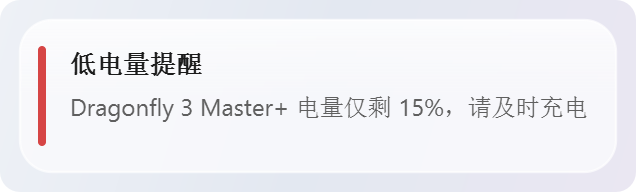
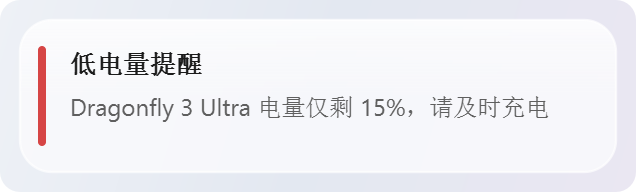
docs: 截图同步为 Dragonfly 3 Ultra
- 演示截图设备由 Dragonfly 3 Master+ 换成 Dragonfly 3 Ultra（391D:1A25）
- 实机截图重拍：Ultra 100%，V108 键盘处于休眠，正好展示休眠态处理
- README 对应文案同步

Changed region(s): [[0.2987, 0.5, 0.9261, 0.625]]

diff --git a/tools/make_screenshots.py b/tools/make_screenshots.py
@@ -62,7 +62,7 @@ def demo_states(charging: bool = False) -> list[DeviceState]:
     """与实机截图同一对设备，保证 README 里几张图观感一致。"""
     return [
         _state("VGN V108 2.4G Dongle", "391D:2A02", "keyboard", 99),
-        _state("Dragonfly 3 Master+", "391D:1A05", "mouse",
+        _state("Dragonfly 3 Ultra", "391D:1A25", "mouse",
                100 if charging else 80, charging=charging),
     ]
 
@@ -154,7 +154,7 @@ def main() -> int:
         print("低电量提醒")
         from app.ui.toast import Toast
         t = Toast.notify(light.window.theme, "低电量提醒",
-                         "Dragonfly 3 Master+ 电量仅剩 15%，请及时充电",
+                         "Dragonfly 3 Ultra 电量仅剩 15%，请及时充电",
                          QColor("#D64545"))
         QTimer.singleShot(200, lambda: (save(t, "screenshot_toast.png"), t.close()))
 

diff --git a/README.md b/README.md
@@ -15,7 +15,7 @@
 |---|---|
 | ![托盘面板](docs/screenshot_popup.png) | ![低电量提醒](docs/screenshot_toast.png) |
 
-实机运行（VGN V108 键盘 99%；鼠标休眠时卡片显示"休眠"，托盘图标保留上次电量，用一下设备即自动补扫）：
+实机运行（Dragonfly 3 Ultra 100%；VGN V108 键盘休眠时卡片显示"休眠"，托盘图标保留上次电量，用一下设备即自动补扫）：
 
 ![实机运行](docs/screenshot_real.png)
 
